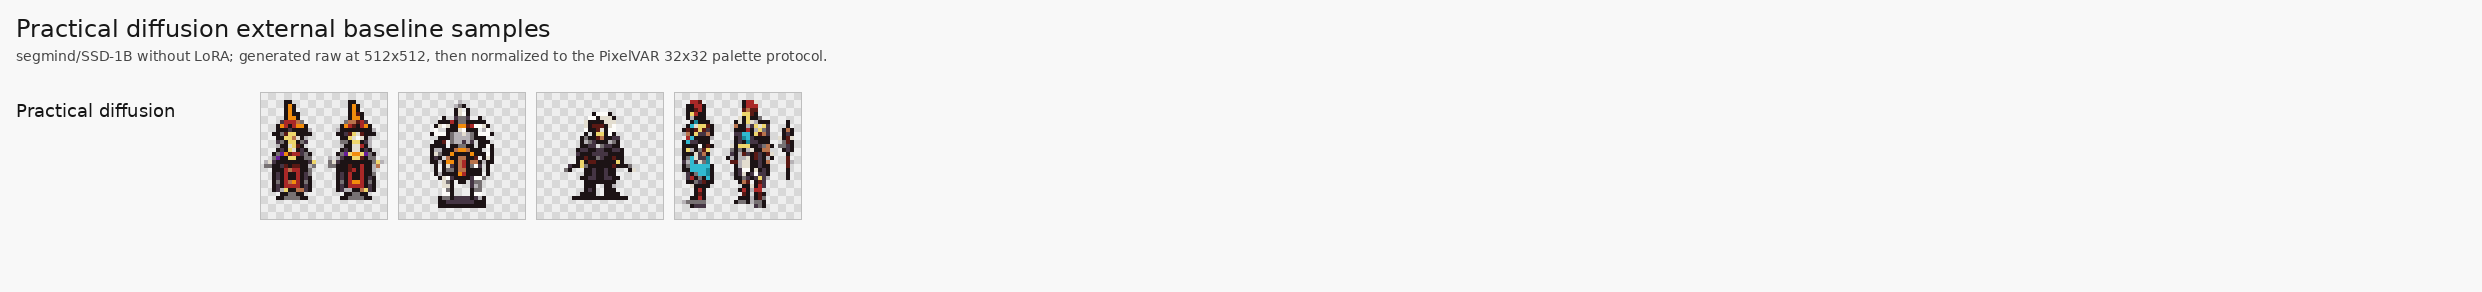
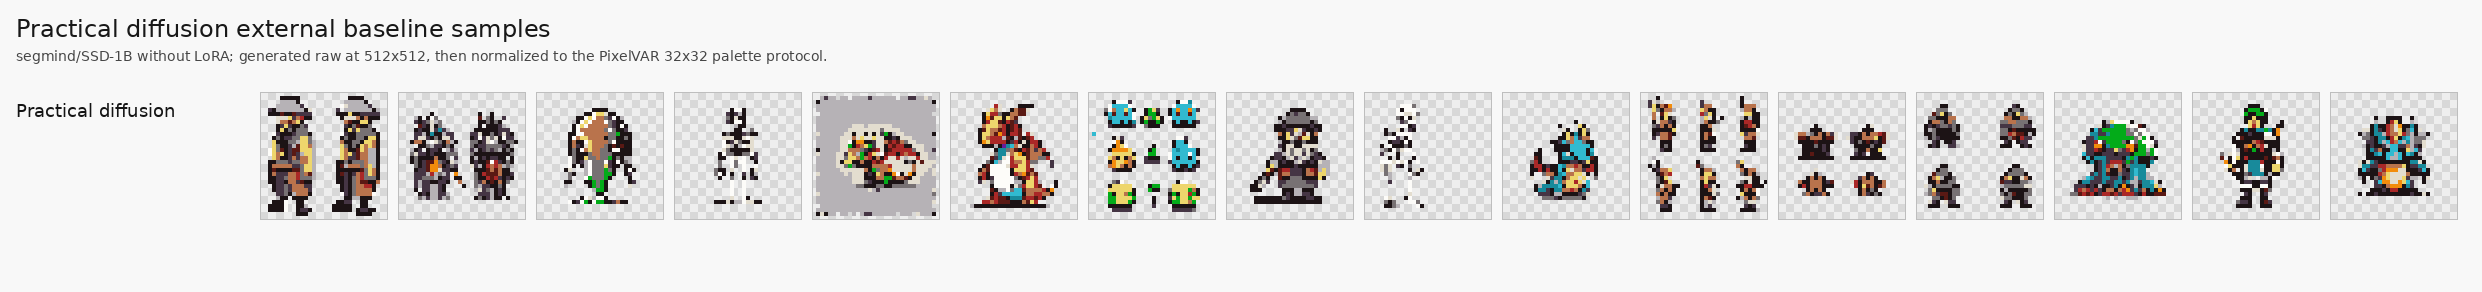
Run practical diffusion metric smoke

Changed region(s): [[0.0931, 0.3082, 0.9927, 0.7705]]

diff --git a/reports/final/external_baseline_and_metrics_plan.md b/reports/final/external_baseline_and_metrics_plan.md
@@ -329,6 +329,48 @@ need numeric external metrics, generate a larger practical-diffusion batch first
 and evaluate it through `scripts/evaluate_image_folders.py`. Do not over-claim
 from the 4-image smoke sheet.
 
+## Practical Diffusion 64-Image Metric Smoke
+
+Status on 2026-06-08: completed.
+
+Generation command:
+
+```bash
+modal run modal_train.py --action run-practical-diffusion-batch --num-samples 64 --diffusion-steps 25
+```
+
+Evaluation command:
+
+```bash
+modal run modal_train.py --action cmd-gpu --cmd "python scripts/evaluate_image_folders.py --reference-dir outputs/eval_images/pixelvar_main/reference --generated-dir pixelvar_main=outputs/eval_images/pixelvar_main/pixelvar_main --generated-dir practical_diffusion=outputs/external_baselines/practical_diffusion/png32 --palette-json data/processed/sprites/palette.json --feature-space inception --max-images 64 --batch-size 64 --kid-subsets 20 --kid-subset-size 32 --msssim-pairs 512 --output-dir outputs/external_eval/main_vs_practical_diffusion_64"
+```
+
+Pulled artifacts:
+
+- `reports/external_eval/main_vs_practical_diffusion_64/evaluation_report.md`
+- `reports/external_eval/main_vs_practical_diffusion_64/metrics.csv`
+- `reports/final/practical_diffusion_sample_sheet.png`
+
+Metric smoke result:
+
+| Method | Images | FID | KID mean | Precision | Recall | Density | Coverage | MS-SSIM | Palette consistency |
+| --- | ---: | ---: | ---: | ---: | ---: | ---: | ---: | ---: | ---: |
+| PixelVAR main | 64 | 87.8128 | 0.007124 | 0.8125 | 0.9375 | 0.6375 | 0.9219 | 0.8535 | 1.0000 |
+| Practical diffusion | 64 | 196.9628 | 0.092097 | 0.0312 | 0.6719 | 0.0094 | 0.0469 | 0.3935 | 1.0000 |
+
+Interpretation: this is not competitive with PixelVAR main under the same
+64-image evaluation slice. Practical diffusion has recognizable individual
+sprites in some cases, but the 64-sample sheet still contains duplicated
+characters, lineup/sprite-sheet outputs, and malformed centered crops. The
+palette consistency score is expected to be 1.0 because the outputs are
+normalized through the PixelVAR palette protocol; it should not be read as
+evidence that the diffusion model itself learned the project palette.
+
+Recommendation after the metric smoke: keep practical diffusion as an external
+qualitative/comparison baseline, but do not spend on a 4096-image practical
+diffusion run unless we specifically need a large negative external-baseline
+number. The 64-image smoke already shows a large quality gap versus PixelVAR.
+
 ## Recommended Order
 
 1. Done: run the new evaluator on PixelVAR main vs HMAR using the same exported
@@ -344,7 +386,8 @@ from the 4-image smoke sheet.
    `reports/final/sd_pixl_sample_sheet.png`.
 8. Done: add and run the practical SSD-1B diffusion baseline smoke, then inspect
    `reports/final/practical_diffusion_sample_sheet.png`.
-9. Next: decide whether to generate a larger practical-diffusion batch for
-   numeric metrics. Keep SD-piXL qualitative unless we tune it further.
-10. Try MDIGAN only if we can adapt its conditional pose task cleanly to our data;
+9. Done: run a 64-image practical-diffusion metric smoke against PixelVAR main.
+10. Next: keep SD-piXL qualitative and practical diffusion as a weak external
+    metric/visual baseline unless we decide to spend on a larger negative result.
+11. Try MDIGAN only if we can adapt its conditional pose task cleanly to our data;
    otherwise cite it as related work rather than a direct numeric baseline.

diff --git a/reports/external_eval/main_vs_practical_diffusion_64/evaluation_report.md b/reports/external_eval/main_vs_practical_diffusion_64/evaluation_report.md
@@ -1,0 +1,12 @@
+# External Image-Folder Evaluation
+
+Reference folder: `outputs/eval_images/pixelvar_main/reference`
+Feature space: `inception`
+
+Lower is better for FID, KID, mean MS-SSIM, and pixel nearest-neighbor distance.
+Higher is better for precision, recall, density, coverage, and palette consistency.
+
+| Method | Images | FID | KID mean | Precision | Recall | Density | Coverage | MS-SSIM | Palette consistency | Opaque ratio | Edge density |
+| --- | ---: | ---: | ---: | ---: | ---: | ---: | ---: | ---: | ---: | ---: | ---: |
+| pixelvar_main | 64 | 87.8128 | 0.007124 | 0.8125 | 0.9375 | 0.6375 | 0.9219 | 0.8535 | 1.0000 | 0.2259 | 0.1799 |
+| practical_diffusion | 64 | 196.9628 | 0.092097 | 0.0312 | 0.6719 | 0.0094 | 0.0469 | 0.3935 | 1.0000 | 0.3520 | 0.2564 |
